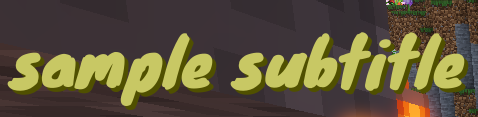
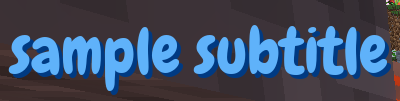
polls, and colors work

diff --git a/2MS2A/misc.py b/2MS2A/misc.py
@@ -20,6 +20,13 @@ class MISC(commands.Cog):
     def __init__(self, bot):
         self.bot = bot
 
+    @commands.command(brief="Start a poll.")
+    async def poll(self, ctx, *, things=""):
+        reactions = ["👍", "👎"]
+        for reaction in reactions:
+            await ctx.message.add_reaction(reaction)
+        print("%s STARTED A POLL." % ctx.author.name)
+
     @commands.command(brief="Send someone a message, anonymously.")
     async def message(self, ctx, person: discord.Member, message):
         if person.dm_channel:

diff --git a/2MS2A/colors.py b/2MS2A/colors.py
@@ -18,7 +18,7 @@ class Colors(commands.Cog):
         with open("color.json", "r") as colorFile:
             ourColors = json.loads(colorFile.read())
 
-        font = ImageFont.truetype("fonts/minecraft.otf", 48)
+        font = ImageFont.truetype("fonts/minecraft.ttf", 48)
 
         w, h = 500, 100
         color = (255, 255, 255)
